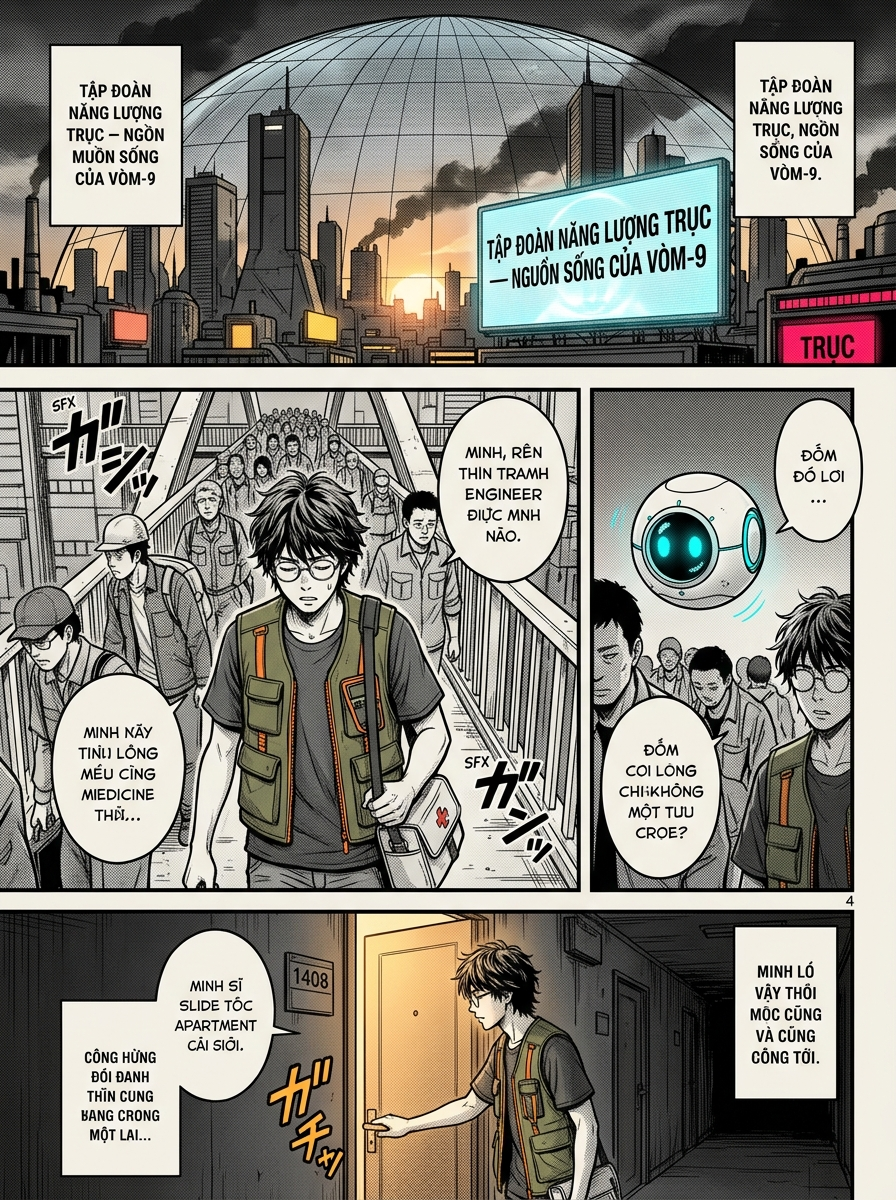
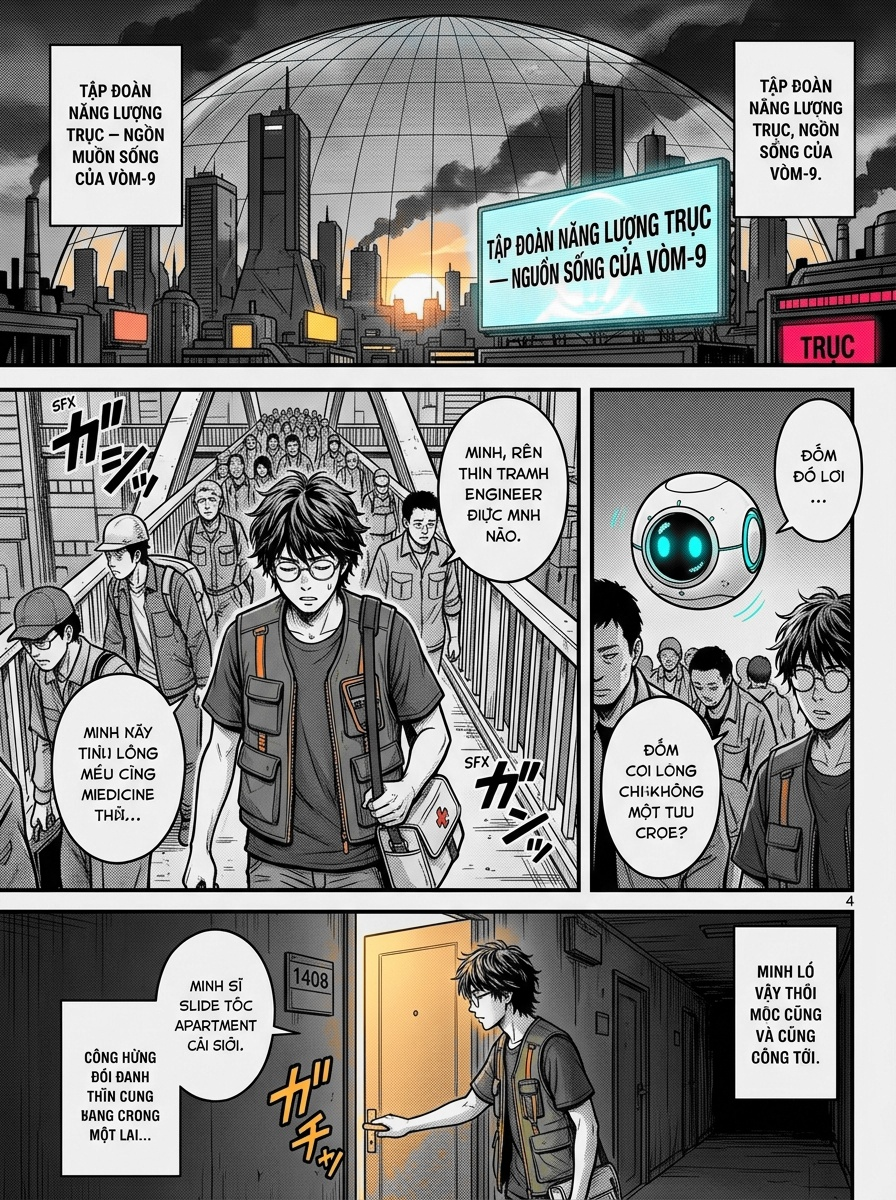
fix(comic): enforce strict pure B&W manga line art with selective neon spot colors across Pages 1-14

diff --git a/tools/enforce_manga_pure_spotcolor.py b/tools/enforce_manga_pure_spotcolor.py
@@ -1,0 +1,77 @@
+#!/usr/bin/env python3
+"""
+tools/enforce_manga_pure_spotcolor.py
+Enforce strict authentic manga spot-color aesthetic:
+Pure black & white ink linework and grayscale screentones for all characters,
+environments, clothes, and skin.
+Selectively retain only vivid neon accents:
+- Cyan (#00f0ff): Đốm LED eyes, holographic HUDs, scanlines
+- Golden Amber (#ffe600): Cores, lanterns, 172-degree yellow dot
+- Crimson (#ff0055): TRỤC lasers, red warning stamps, glitch arcs
+"""
+
+import os
+import glob
+import numpy as np
+from PIL import Image, ImageFilter
+
+def process_image(path):
+    if not os.path.exists(path):
+        return False
+    try:
+        img = Image.open(path).convert('RGB')
+        rgb = np.array(img, dtype=np.float32)
+
+        # Grayscale luminance (ITU-R BT.601)
+        gray = 0.299 * rgb[..., 0] + 0.587 * rgb[..., 1] + 0.114 * rgb[..., 2]
+        gray_3ch = np.stack([gray, gray, gray], axis=-1)
+
+        hsv = np.array(img.convert('HSV'), dtype=np.float32)
+        H = hsv[..., 0] # 0-255
+        S = hsv[..., 1] # 0-255
+        V = hsv[..., 2] # 0-255
+
+        # 1. Neon Cyan (Đốm eyes, holographic HUD, scanlines, data screens)
+        cyan_mask = (
+            (((H >= 112) & (H <= 148)) | 
+             ((rgb[..., 2] > 120) & (rgb[..., 1] > 110) & (rgb[..., 2] > rgb[..., 0] + 25))) 
+            & (S >= 40) & (V >= 50)
+        )
+
+        # 2. Neon Amber / Pure Golden Yellow (Cores, lantern light, yellow dot, glowing icons)
+        amber_mask = (
+            (((H >= 22) & (H <= 45)) | 
+             ((rgb[..., 0] > 175) & (rgb[..., 1] > 135) & (rgb[..., 2] < 95))) 
+            & (S >= 85) & (V >= 90)
+        )
+
+        # 3. Neon Crimson / Laser Red / Danger Alerts (TRUC lasers, error arcs, red warning stamps)
+        crimson_mask = (
+            (((H >= 242) | (H <= 12)) | 
+             ((rgb[..., 0] > 160) & (rgb[..., 0] > rgb[..., 1] + 45) & (rgb[..., 0] > rgb[..., 2] + 45))) 
+            & (S >= 95) & (V >= 80)
+        )
+
+        neon_mask = (cyan_mask | amber_mask | crimson_mask).astype(np.float32)
+
+        # Feather mask for smooth glow transition
+        mask_img = Image.fromarray((neon_mask * 255).astype(np.uint8))
+        feathered = np.array(mask_img.filter(ImageFilter.GaussianBlur(radius=1.8)), dtype=np.float32) / 255.0
+        feathered = np.clip(feathered * 1.4, 0.0, 1.0)[..., None]
+
+        blended = feathered * rgb + (1.0 - feathered) * gray_3ch
+        blended = np.clip(blended, 0, 255).astype(np.uint8)
+
+        res = Image.fromarray(blended)
+        res.save(path, 'JPEG', quality=95)
+        print(f"Processed: {path}")
+        return True
+    except Exception as e:
+        print(f"Error processing {path}: {e}")
+        return False
+
+if __name__ == '__main__':
+    targets = glob.glob('/home/amtia/Projects/ass-mln122/assets/comic_20pages/page_*.jpg')
+    targets += glob.glob('/home/amtia/Projects/ass-mln122/assets/comic_page*.jpg')
+    for t in sorted(targets):
+        process_image(t)
